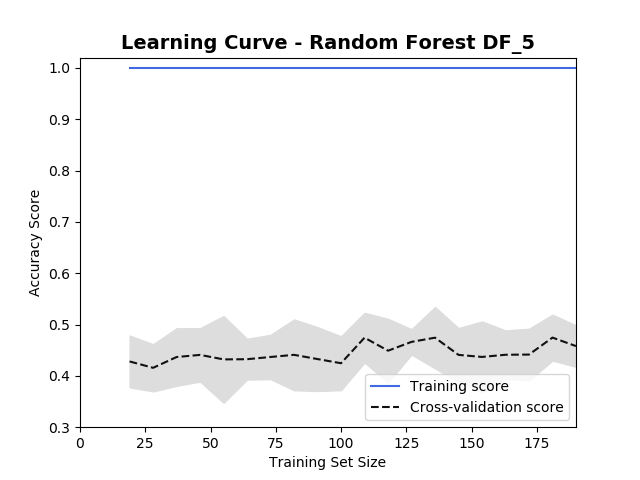
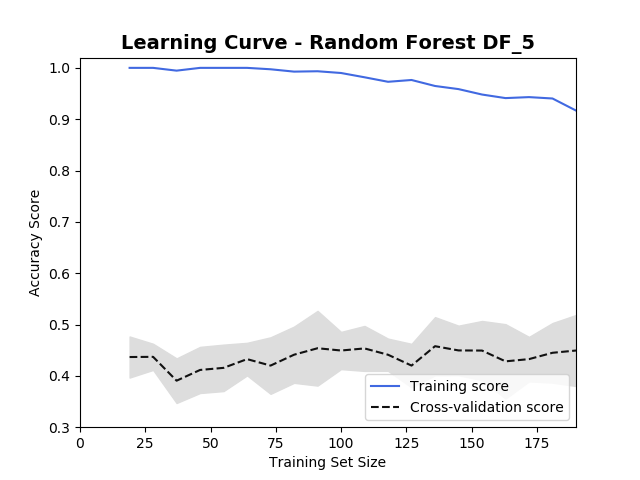
Random Forest Feature Importance

diff --git a/ml_model_build_random_forest/random_forest_model_build.py b/ml_model_build_random_forest/random_forest_model_build.py
@@ -24,6 +24,7 @@ from sklearn.ensemble import RandomForestClassifier
 from sklearn.model_selection import train_test_split
 from sklearn.metrics import classification_report, confusion_matrix, plot_confusion_matrix, accuracy_score
 from sklearn.model_selection import StratifiedKFold, cross_val_score, cross_val_predict
+import pandas as pd
 
 
 plt.close('all')
@@ -56,7 +57,7 @@ def rand_forest_train(df, print_result=True, print_result_label=''):
     y = df['Team Result Indicator']
     
     #instantiate the random forest class
-    clf = RandomForestClassifier()
+    clf = RandomForestClassifier(max_depth = 5)
     
     #split into training data and test data
     x_train, x_test, y_train, y_test = train_test_split(x, y, test_size=0.2)
@@ -85,6 +86,9 @@ with open('ml_models/random_forest_model_5.pk1', 'wb') as myFile:
 
 with open('ml_models/random_forest_model_10.pk1', 'wb') as myFile:
     pickle.dump(ml_10_rand_forest, myFile)
+
+
+fi = pd.DataFrame({'feature': list(x10_train.columns),'importance': ml_10_rand_forest.feature_importances_}).sort_values('importance', ascending = False)
 
 
 # ----- ENSEMBLE MODELLING -----
@@ -143,19 +147,25 @@ print('Cross-Validation Accuracy Score ML5: ', cv_score_av, '%\n')
 
 
 #plot confusion matrix - modified to take cross-val results.
-plot_cross_val_confusion_matrix(ml_10_rand_forest, x_10, y_10, display_labels=('team loses', 'draw', 'team wins'), title='Random Forest Confusion Matrix ML10', cv=skf)
-plt.savefig('figures\ml_10_confusion_matrix_cross_val_random_forest.png')
+#plot_cross_val_confusion_matrix(ml_10_rand_forest, x_10, y_10, display_labels=('team loses', 'draw', 'team wins'), title='Random Forest Confusion Matrix ML10', cv=skf)
+#plt.savefig('figures\ml_10_confusion_matrix_cross_val_random_forest.png')
 
-plot_cross_val_confusion_matrix(ml_5_rand_forest, x_5, y_5, display_labels=('team loses', 'draw', 'team wins'), title='Random Forest Confusion Matrix ML5', cv=skf)
-plt.savefig('figures\ml_5_confusion_matrix_cross_val_random_forest.png')
+#plot_cross_val_confusion_matrix(ml_5_rand_forest, x_5, y_5, display_labels=('team loses', 'draw', 'team wins'), title='Random Forest Confusion Matrix ML5', cv=skf)
+#plt.savefig('figures\ml_5_confusion_matrix_cross_val_random_forest.png')
 
 
 #plotting learning curves
-plot_learning_curve(ml_10_rand_forest, x_10, y_10, training_set_size=20, x_max=160, title='Learning Curve - Random Forest DF_10')
-plt.savefig('figures\ml_10_random_forest_learning_curve.png')
+#plot_learning_curve(ml_10_rand_forest, x_10, y_10, training_set_size=20, x_max=160, title='Learning Curve - Random Forest DF_10')
+#plt.savefig('figures\ml_10_random_forest_learning_curve.png')
 
-plot_learning_curve(ml_5_rand_forest, x_5, y_5, training_set_size=20, x_max=190, title='Learning Curve - Random Forest DF_5')
-plt.savefig('figures\ml_5_random_forest_learning_curve.png')
+#plot_learning_curve(ml_5_rand_forest, x_5, y_5, training_set_size=20, x_max=190, title='Learning Curve - Random Forest DF_5')
+#plt.savefig('figures\ml_5_random_forest_learning_curve.png')
+
+
+#feature importance
+fi_ml_10 = pd.DataFrame({'feature': list(x10_train.columns),'importance': ml_10_rand_forest.feature_importances_}).sort_values('importance', ascending = False)
+
+fi_ml_5 = pd.DataFrame({'feature': list(x5_train.columns),'importance': ml_5_rand_forest.feature_importances_}).sort_values('importance', ascending = False)
 
 
 # ----------------------------------- END -------------------------------------
